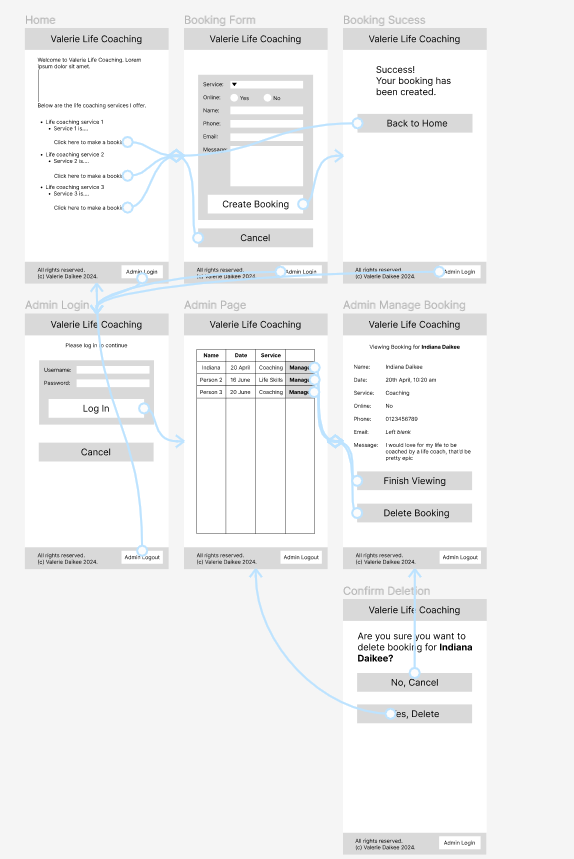
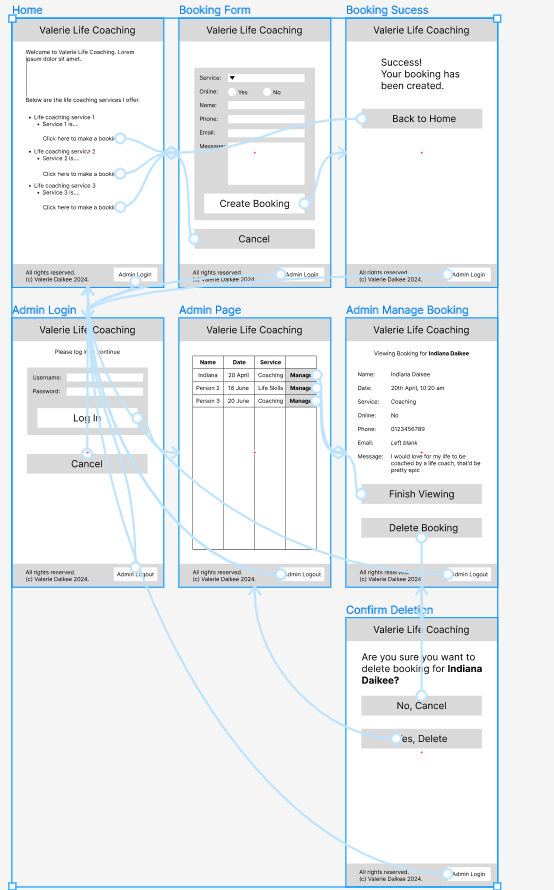
Updated dev.md

diff --git a/development.md b/development.md
@@ -43,7 +43,7 @@ I am working on a black and white website mock-up on Figma that to show to my Mu
 
 So far I have made a very rough mock-up of the public half of the website. 
 
-![Alt text](images/figma1.png)
+![Basic Figma mock-up](images/figma1.png)
 
 Once I get the admin side of the website set up I will show my Mum what she thinks.
 
@@ -52,9 +52,33 @@ Once I get the admin side of the website set up I will show my Mum what she thin
 I am working on the admin console for the Figma mock-up.
 
 I have completed the interactive figma mock-up:
-![Alt text](images/figma2.png)
+![Completed basic Figma mock-up](images/figma2.png)
 
-I get my Mum to interactively test it out and get feedback from her.
+I will get my Mum to interactively test it out and get feedback from her.
+
+> The general layout was quite intuitive. From this mock website I only have minor critiques:
+>- The 'create booking' text should be a button instead of a text link.
+>- When creating a booking, an Email should be required but a phone number optional.
+>- If the user selects 'No' to the 'Online' section, there needs to be a text box for where they want to meet.
+
+### 2024-05-30
+
+I have made the appropriate changes to cater to my Mum's requests.
+![Modified basic Figma mock-up](images/figma3.png)
+
+Replace this text with brief notes describing what you worked on, any decisions you made, any changes to designs, etc. Add screenshots / links to other media to illustrate your notes where necessary.
+
+### DATE HERE
+
+Replace this test with what you are working on
+
+Replace this text with brief notes describing what you worked on, any decisions you made, any changes to designs, etc. Add screenshots / links to other media to illustrate your notes where necessary.
+
+### DATE HERE
+
+Replace this test with what you are working on
+
+Replace this text with brief notes describing what you worked on, any decisions you made, any changes to designs, etc. Add screenshots / links to other media to illustrate your notes where necessary.
 
 ### DATE HERE
 
